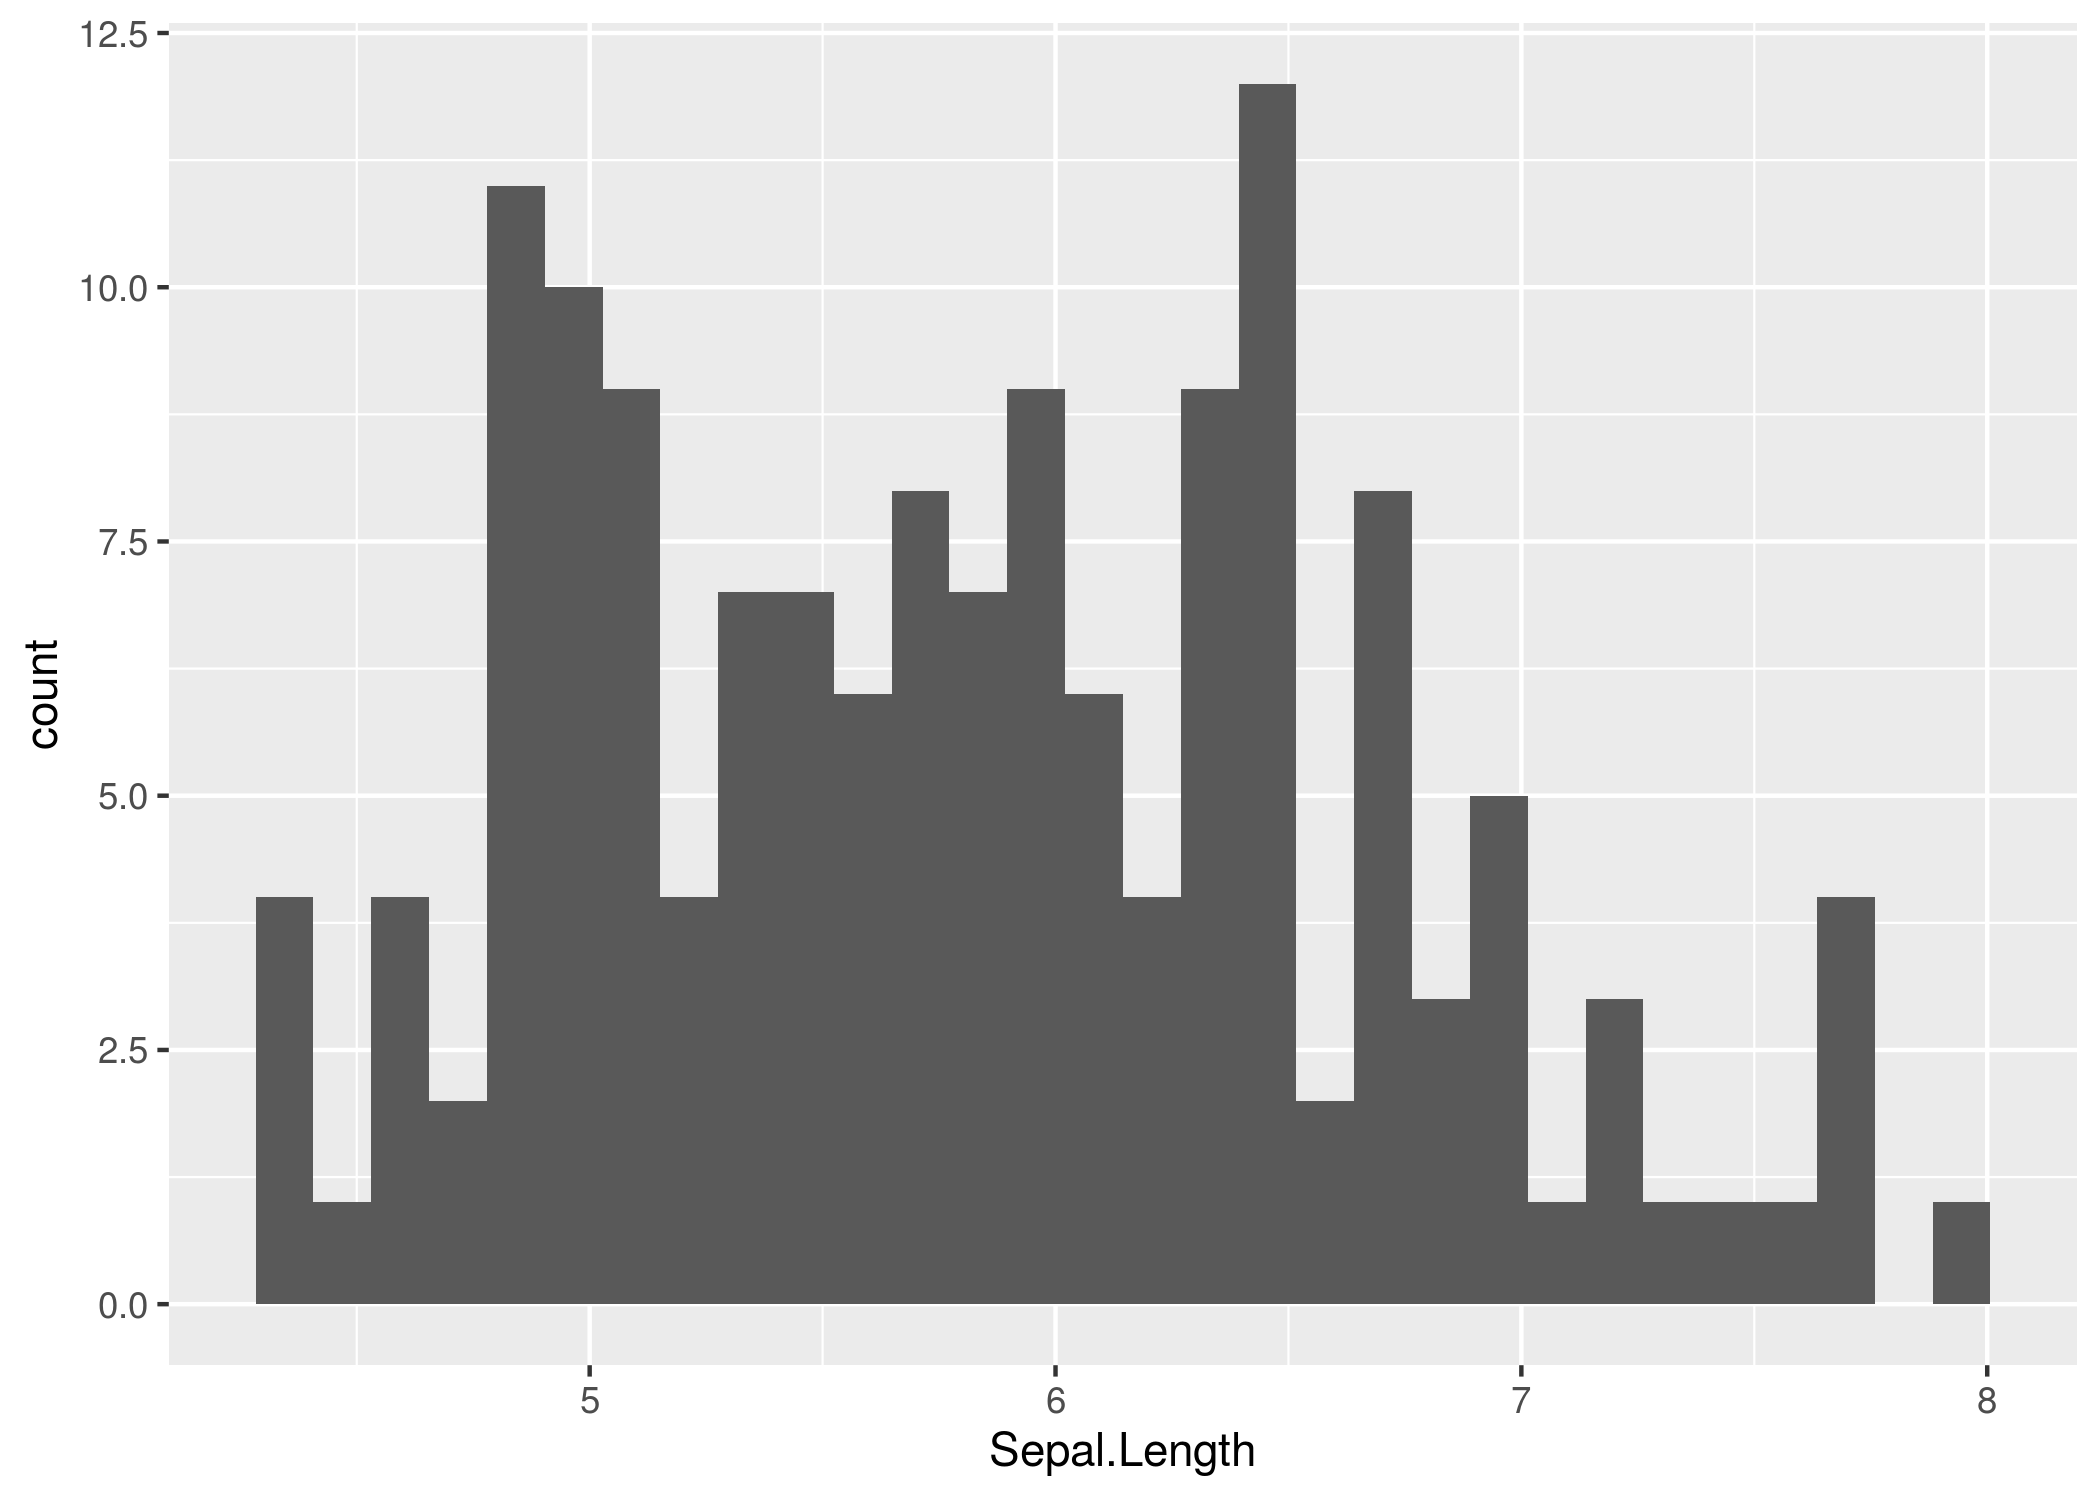
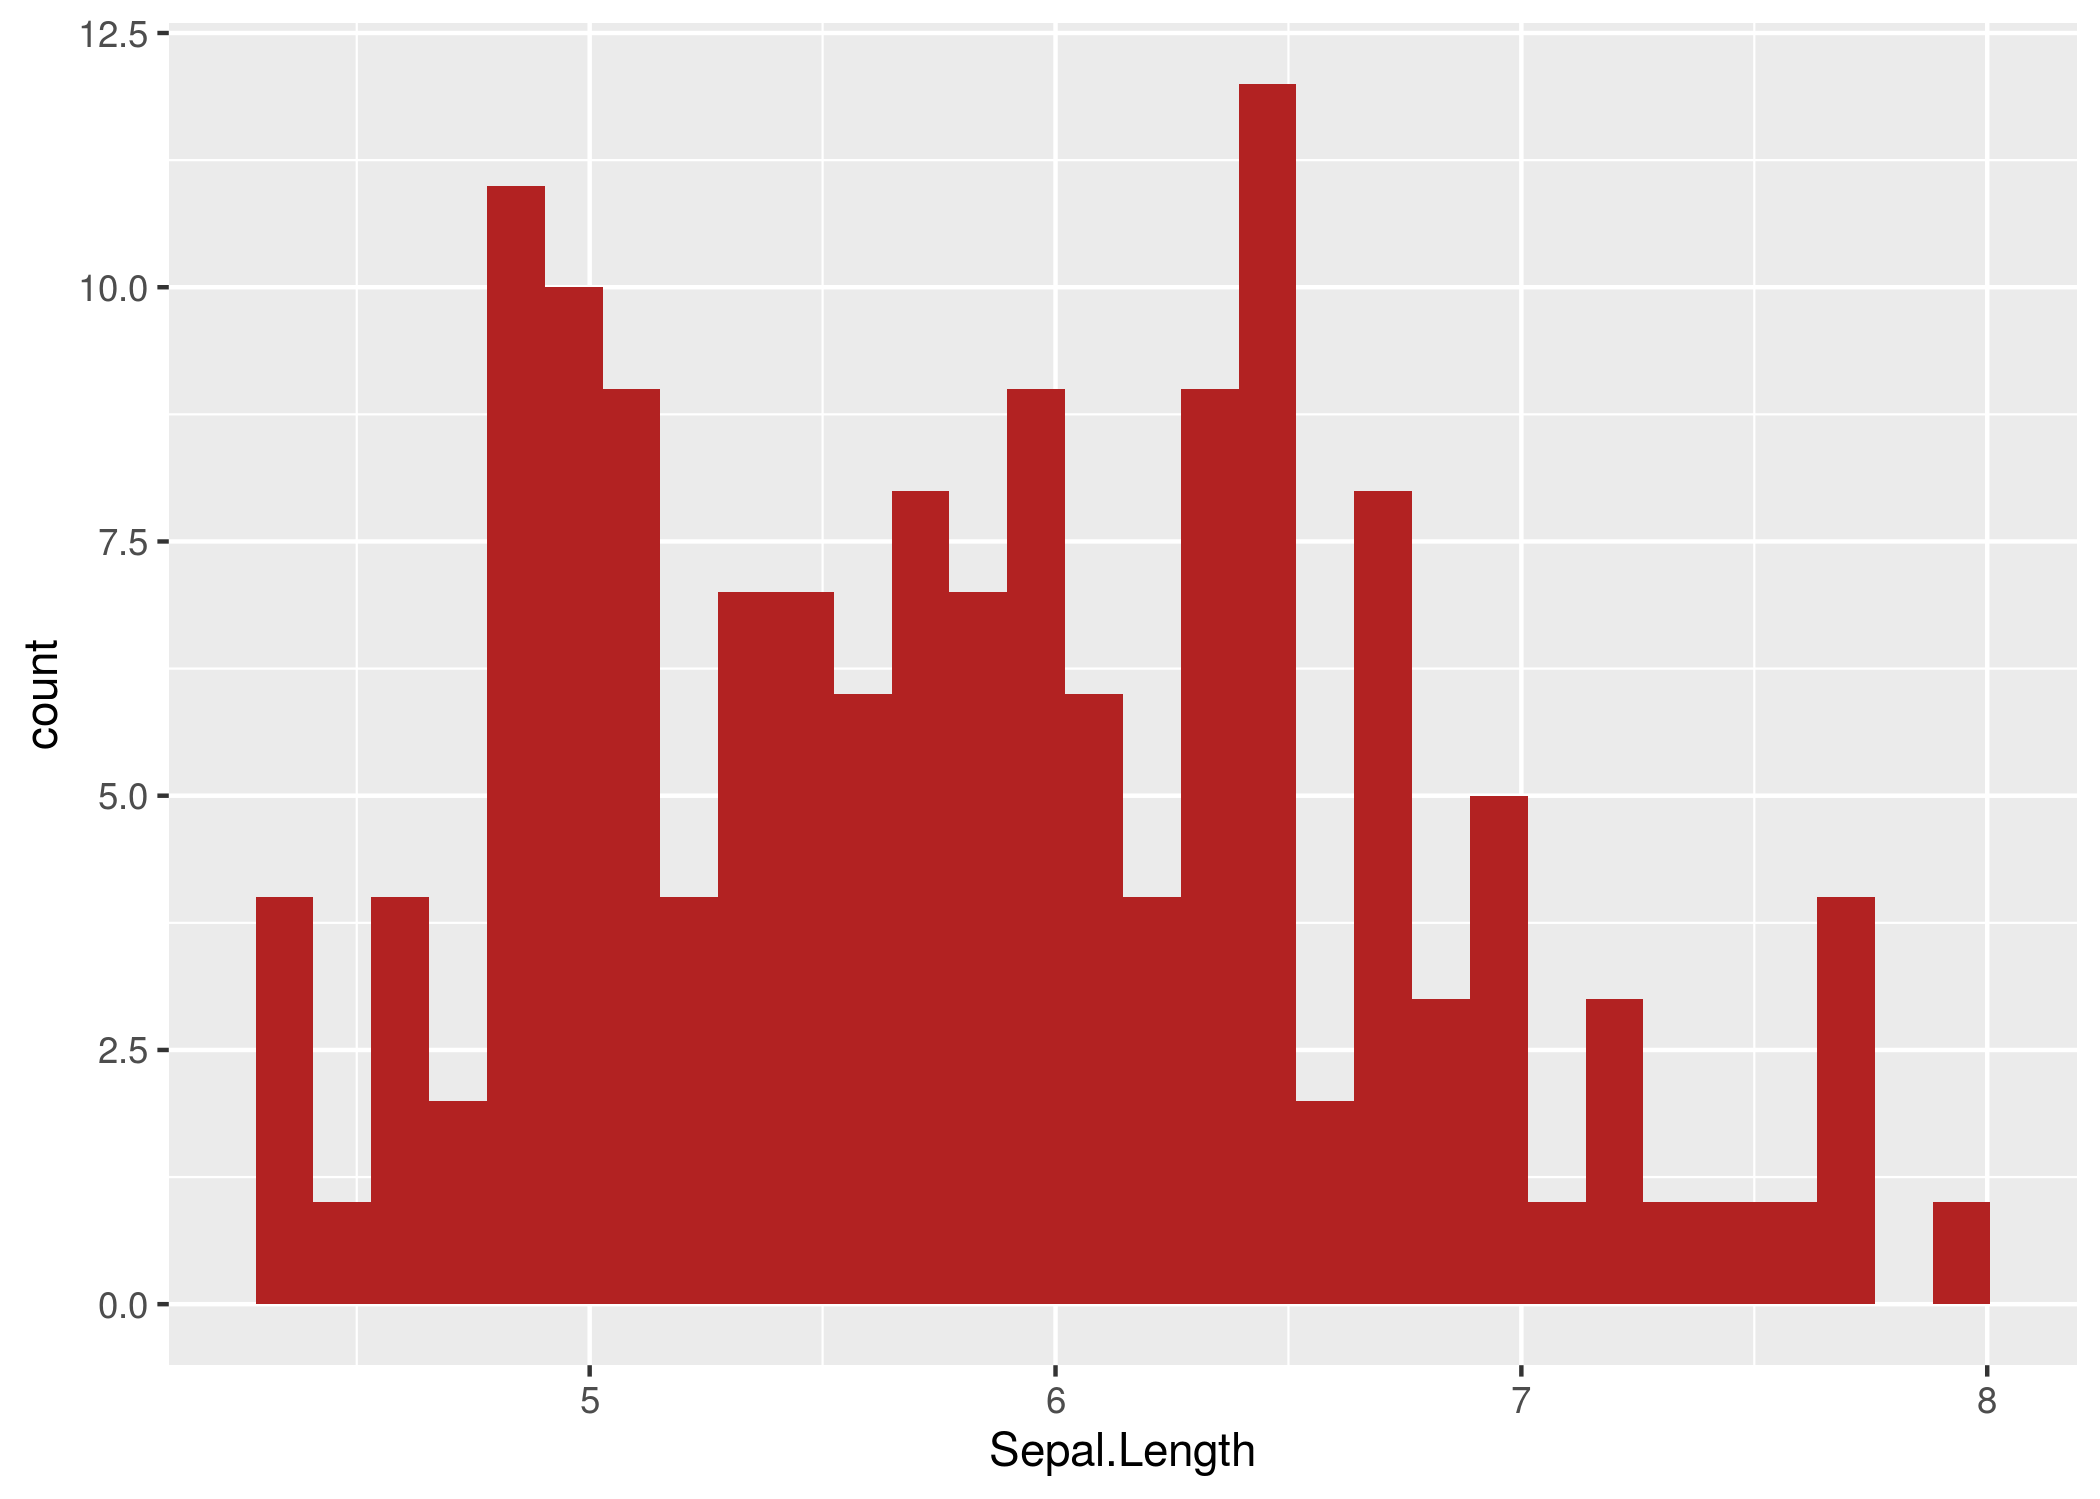
modified plot to have fill

Changed region(s): [[0.1238, 0.0307, 0.9595, 0.8899]]

diff --git a/practice_plot_github.html b/practice_plot_github.html
@@ -370,7 +370,7 @@ summary {
 
 
 <pre class="r"><code>ggplot(iris, aes(x=Sepal.Length)) +
-  geom_histogram() -&gt; practice_plot
+  geom_histogram(fill = 'firebrick') -&gt; practice_plot
 
 ggsave(&quot;practice_plot.png&quot;, practice_plot)</code></pre>
 <pre><code>## Saving 7 x 5 in image</code></pre>
